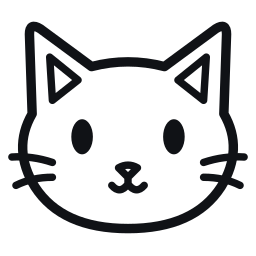
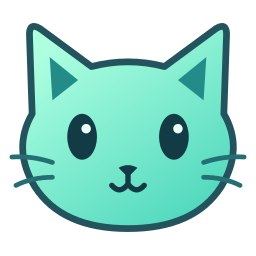
界面：恢复无背景薄荷猫描边托盘
根据实机线稿过细反馈恢复填充猫脸；先更新钉子测试，要求透明背景、薄荷填色及灰态五官明暗，不削减状态验收。

diff --git a/cmd/clashgo/tray_icon_test.go b/cmd/clashgo/tray_icon_test.go
@@ -31,7 +31,7 @@ func TestTrayUsesOutlinedCatSeparateFromApplication(t *testing.T) {
 	if active.Bounds() != inactive.Bounds() || active.Bounds().Dx() != 256 {
 		t.Fatal("tray image dimensions changed")
 	}
-	ink := false
+	colored, dark, light := false, false, false
 	for y := 0; y < 256; y++ {
 		for x := 0; x < 256; x++ {
 			a := color.NRGBAModel.Convert(active.At(x, y)).(color.NRGBA)
@@ -40,16 +40,17 @@ func TestTrayUsesOutlinedCatSeparateFromApplication(t *testing.T) {
 				t.Fatalf("gray image changed silhouette or contains color at %d,%d", x, y)
 			}
 			if a.A == 255 {
-				ink = true
-				// Raster compositing can round overlapping antialiased strokes.
-				if a.R < 14 || a.R > 18 || a.G < 16 || a.G > 20 || a.B < 20 || a.B > 24 || b.R != 140 {
-					t.Fatal("incorrect normal or inactive ink")
-				}
+				colored = colored || a.G > a.R+20
+				dark = dark || b.R < 80
+				light = light || b.R > 180
 			}
 		}
 	}
-	if !ink {
-		t.Fatal("active cat has no opaque line art")
+	if !colored || !dark || !light {
+		t.Fatal("normal cat must retain mint fill; gray cat must retain facial contrast")
+	}
+	if _, _, _, alpha := active.At(8, 8).RGBA(); alpha != 0 {
+		t.Fatal("tray must have no background tile")
 	}
 	first, second := trayIconPNG(false), trayIconPNG(false)
 	if &first[0] != &second[0] {

diff --git a/cmd/clashgo/tray_icon.go b/cmd/clashgo/tray_icon.go
@@ -11,7 +11,8 @@ import (
 	"github.com/carrotciallo/clashgo/assets"
 )
 
-// Both tray states use the same line art and alpha mask; only ink changes.
+// Both tray states use the same outlined cat and alpha mask; gray preserves
+// the filled face and dark facial details instead of flattening the silhouette.
 var inactiveTrayIcon = sync.OnceValue(func() []byte {
 	data, err := grayscalePNG(assets.TrayPNG)
 	if err != nil {
@@ -37,7 +38,8 @@ func grayscalePNG(data []byte) ([]byte, error) {
 	for y := source.Bounds().Min.Y; y < source.Bounds().Max.Y; y++ {
 		for x := source.Bounds().Min.X; x < source.Bounds().Max.X; x++ {
 			c := color.NRGBAModel.Convert(source.At(x, y)).(color.NRGBA)
-			gray.SetNRGBA(x, y, color.NRGBA{R: 140, G: 140, B: 140, A: c.A})
+			value := uint8((299*uint32(c.R) + 587*uint32(c.G) + 114*uint32(c.B) + 500) / 1000)
+			gray.SetNRGBA(x, y, color.NRGBA{R: value, G: value, B: value, A: c.A})
 		}
 	}
 	var buf bytes.Buffer
